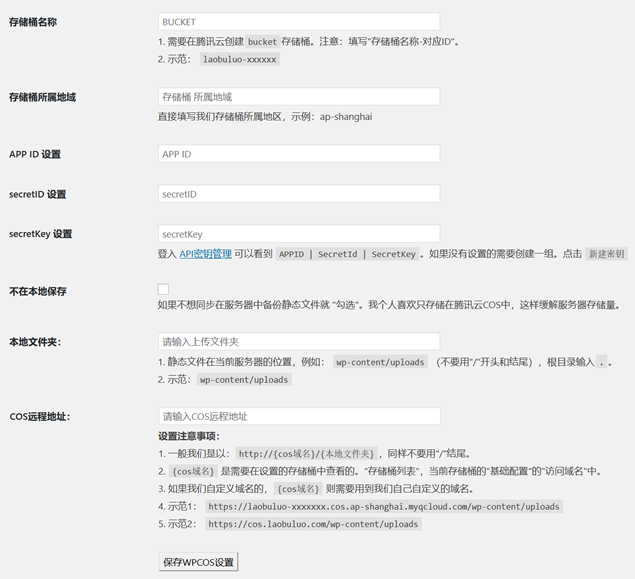
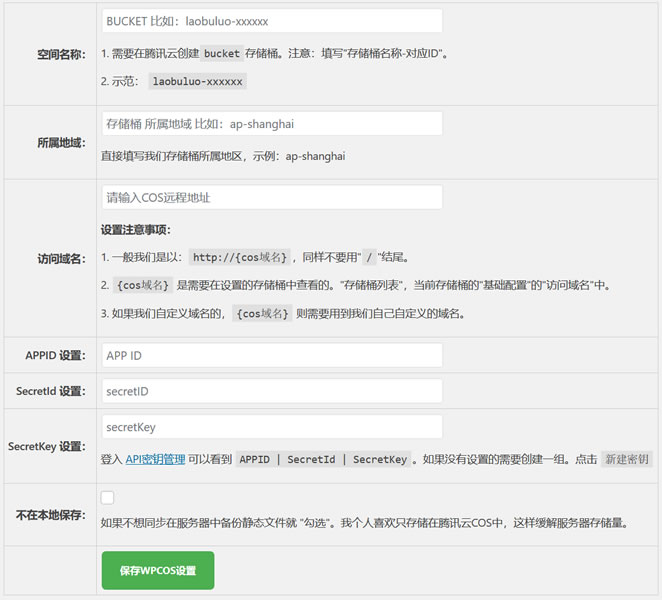
WPCOS 1.1文档修改

diff --git a/wpcos/wpcos_setting_page.php b/wpcos/wpcos_setting_page.php
@@ -18,7 +18,7 @@ function wpcos_setting_page() {
 			update_option('wpcos_options', $wpcos_options);
 			update_option('upload_url_path', esc_url_raw(trim(trim(stripslashes($_POST['upload_url_path'])))));
 			?>
-            <div style="font-size: 25px;color: red; margin-top: 20px;font-weight: bold;"><p>WPCOS插件设置保存完毕!!!</p></div>
+            <div class="update-nag">WPCOS插件设置保存完毕!!!</div>
 			<?php
 		}
 }
@@ -47,15 +47,15 @@ function wpcos_setting_page() {
     <h2>WordPress COS（WPCOS）腾讯云COS存储设置</h2>
     <hr/>
         <p>WordPress COS（简称:WPCOS），基于腾讯云COS存储与WordPress实现静态资源到COS存储中。提高网站项目的访问速度，以及静态资源的安全存储功能。</p>
-        <p>插件网站： <a href="https://www.laobuluo.com" target="_blank">老部落</a> / <a href="https://www.laobuluo.com/2186.html" target="_blank">WPCOS发布页面地址</a> / <a href="https://www.laobuluo.com/2196.html" target="_blank"> <font color="red">WPCOS安装详细教程</font></a></p>
+        <p>插件网站： <a href="https://www.laobuluo.com" target="_blank">老部落</a> / <a href="https://www.laobuluo.com/2186.html" target="_blank">WPCOS发布页面地址</a> / <a href="https://www.laobuluo.com/2196.html" target="_blank"> <font color="red">WPCOS安装详细教程</font></a> / 站长互助QQ群： <a href="https://jq.qq.com/?_wv=1027&k=5gBE7Pt" target="_blank"> <font color="red">594467847</font></a>（宗旨：多做事，少说话，效率至上）</p>
         <p>优惠促销： <a href="https://www.laobuluo.com/tengxunyun/" target="_blank">最新腾讯云优惠汇总</a> / <a href="https://www.laobuluo.com/goto/qcloud-cos" target="_blank">腾讯云COS资源包优惠</a></p>
-        <p>站长互助QQ群： <a href="https://jq.qq.com/?_wv=1027&k=5gBE7Pt" target="_blank"> <font color="red">594467847</font></a>（宗旨：多做事，少说话，效率至上）</p>
+       
       <hr/>
     <form action="<?php echo wp_nonce_url('./admin.php?page=' . WPCOS_BASEFOLDER . '/wpcos_actions.php'); ?>" name="wpcosform" method="post">
         <table>
             <tr>
                 <td style="text-align:right;">
-                    <b>存储桶名称：</b>
+                    <b>空间名称：</b>
                 </td>
                 <td>
                     <input type="text" name="bucket" value="<?php echo esc_attr($wpcos_options['bucket']); ?>" size="50"
@@ -67,7 +67,7 @@ function wpcos_setting_page() {
             </tr>
             <tr>
                  <td style="text-align:right;">
-                    <b>存储桶所属地域：</b>
+                    <b>所属地域：</b>
                </td>
                 <td>
                     <input type="text" name="region" value="<?php echo esc_attr($wpcos_options['region']); ?>" size="50"
@@ -77,26 +77,22 @@ function wpcos_setting_page() {
             </tr>
 <tr>
                <td style="text-align:right;">
-                    <b>COS远程地址：</b>
+                    <b>访问域名：</b>
               </td>
                 <td>
                     <input type="text" name="upload_url_path" value="<?php echo esc_url(get_option('upload_url_path')); ?>" size="50"
                            placeholder="请输入COS远程地址"/>
 
                     <p><b>设置注意事项：</b></p>
-
-                    <p>1. 一般我们是以：<code>http://{cos域名}/{本地文件夹}</code>，同样不要用"/"结尾。</p>
-
+                    <p>1. 一般我们是以：<code>http://{cos域名}</code>，同样不要用"<code>/</code>"结尾。</p>
                     <p>2. <code>{cos域名}</code> 是需要在设置的存储桶中查看的。"存储桶列表"，当前存储桶的"基础配置"的"访问域名"中。</p>
-
                     <p>3. 如果我们自定义域名的，<code>{cos域名}</code> 则需要用到我们自己自定义的域名。</p>
-                    <p>4. 示范1： <code>https://laobuluo-xxxxxxx.cos.ap-shanghai.myqcloud.com/wp-content/uploads</code></p>
-                    <p>5. 示范2： <code>https://cos.laobuluo.com/wp-content/uploads</code></p>
+                    
                 </td>
             </tr>
             <tr>
                 <td style="text-align:right;">
-                    <b>APP ID 设置：</b>
+                    <b>APPID 设置：</b>
                 </td>
                 <td>
                     <input type="text" name="app_id" value="<?php echo esc_attr($wpcos_options['app_id']); ?>" size="50"
@@ -107,13 +103,13 @@ function wpcos_setting_page() {
             </tr>
             <tr>
                 <td style="text-align:right;">
-                    <b>secretID 设置：</b>
+                    <b>SecretId 设置：</b>
                  </td>
                 <td><input type="text" name="secret_id" value="<?php echo esc_attr($wpcos_options['secret_id']); ?>" size="50" placeholder="secretID"/></td>
             </tr>
             <tr>
                <td style="text-align:right;">
-                    <b>secretKey 设置：</b>
+                    <b>SecretKey 设置：</b>
                  </td>
                 <td>
                     <input type="text" name="secret_key" value="<?php echo esc_attr($wpcos_options['secret_key']); ?>" size="50" placeholder="secretKey"/>

diff --git a/wpcos/wpcos.php b/wpcos/wpcos.php
@@ -1,10 +1,10 @@
 <?php
 /**
-Plugin Name: WordPress COS（WPCOS）
+Plugin Name: WPCOS
 Plugin URI: https://www.laobuluo.com/2186.html
 Description: WordPress同步附件内容远程至腾讯云COS云存储中，实现网站数据与静态资源分离，提高网站加载速度。站长互助QQ群： <a href="https://jq.qq.com/?_wv=1027&k=5gBE7Pt" target="_blank"> <font color="red">594467847</font></a>
-Version: 0.2
-Author: 老部落（By:zdl25）
+Version: 1.1
+Author: 老部落（By:老赵）
 Author URI: https://www.laobuluo.com
 */
 
